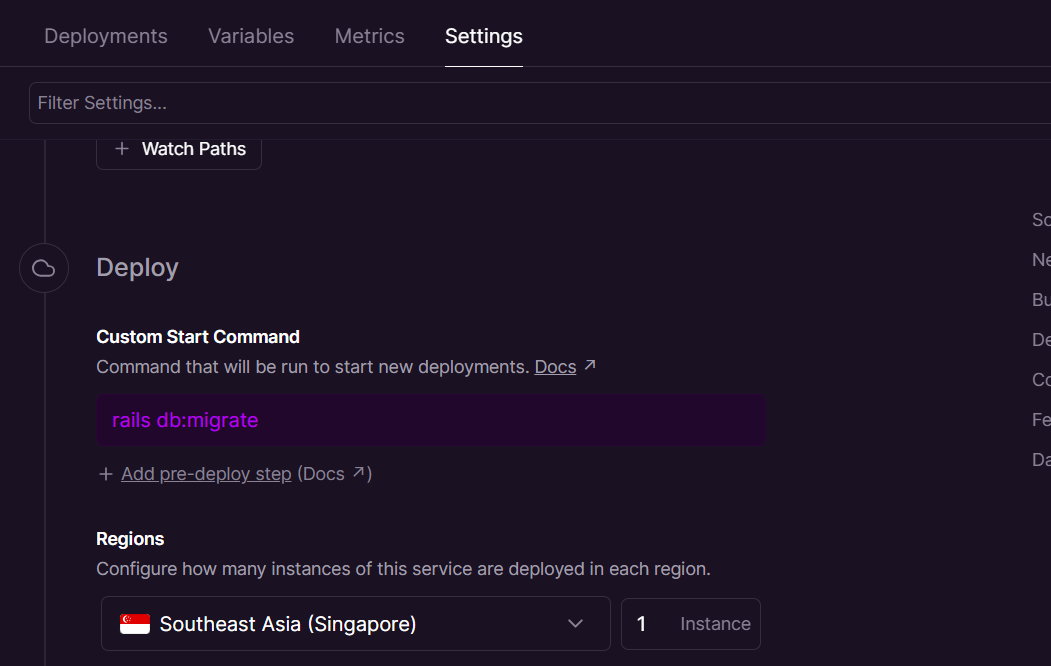
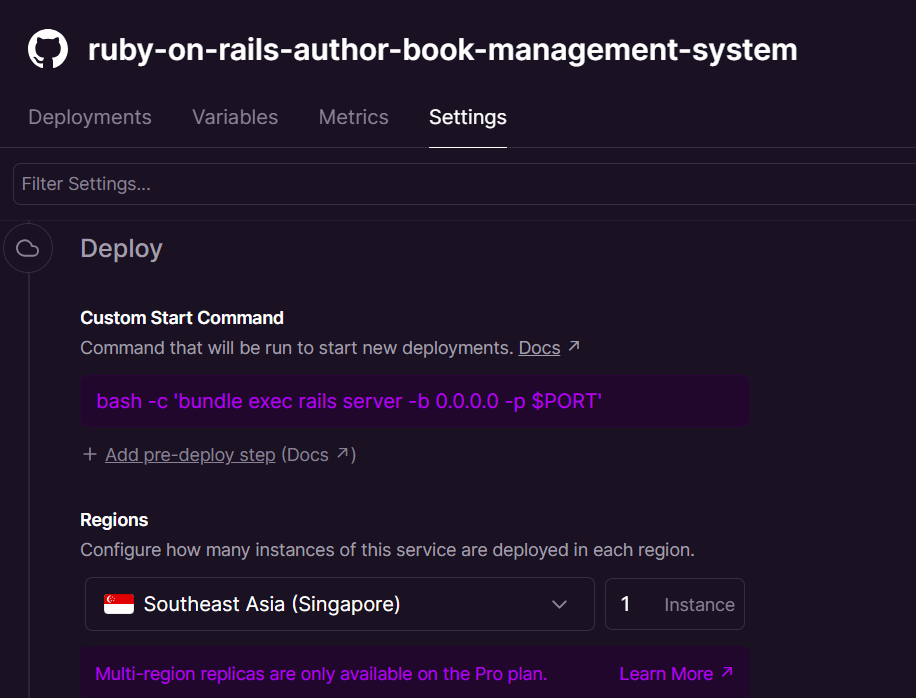
Added rack in Gemfile

diff --git a/assets/ProjectStructure.MD b/assets/ProjectStructure.MD
@@ -25,7 +25,8 @@ rails new author_book_management_system --database=mysql
 cd author_book_management_system
 
 # Add mysql2 and pg gems to your Gemfile:
-gem 'mysql2', '0.5.6'  # Adjust as necessary
+ruby '3.4.5'
+gem 'rack', '~> 3.2'
 gem 'pg', '>= 1.2'  # For production on Railway
 gem 'rack-cors', require: 'rack/cors'  # For CORS support
 
@@ -50,7 +51,6 @@ rails generate controller Books
 # Run the Server:
 rails server
 
-
 # For Railway:
 gem install bundler -v 2.7.1
 bundle lock --add-platform x86_64-linux
@@ -58,3 +58,8 @@ bundle lock --add-platform x86_64-linux
 # Generate a secure key:
 rails secret
[1 lines of base64/hex data omitted]
+
+# Custom start command:
+bash -c 'bundle exec rails server -b 0.0.0.0 -p $PORT'
+
+
